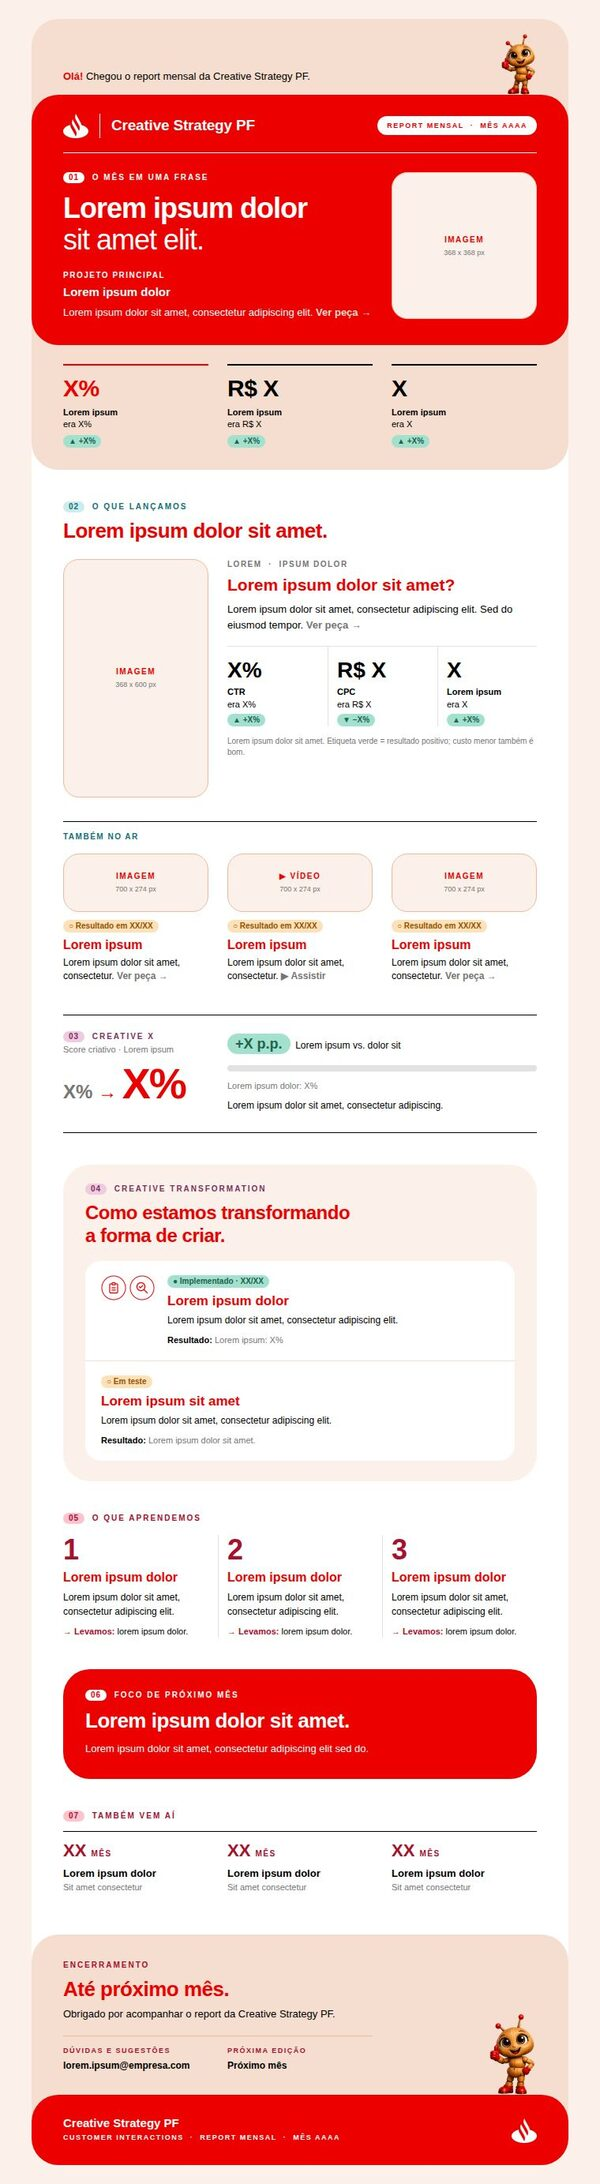
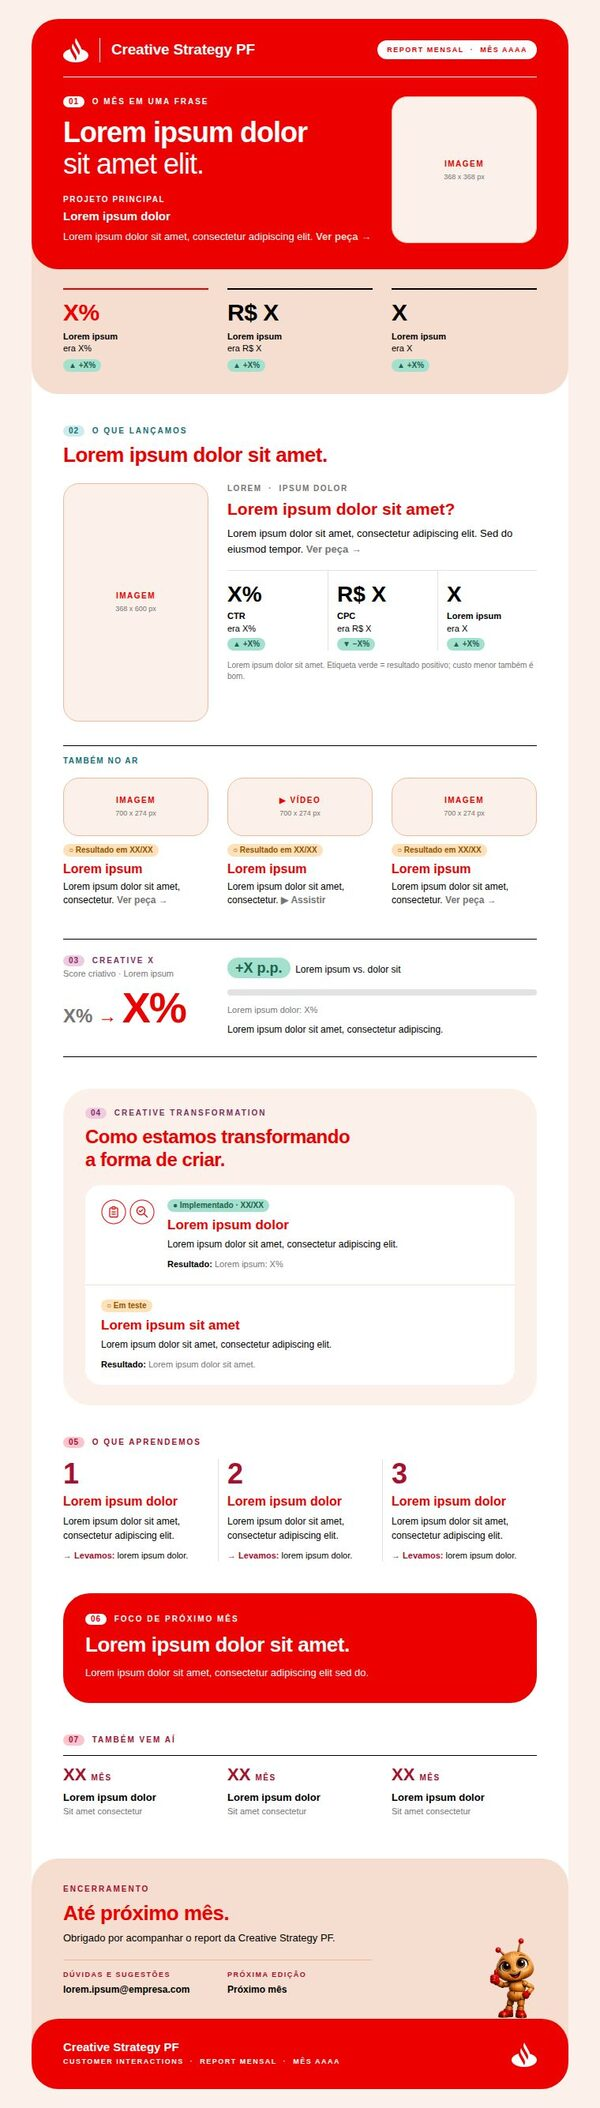
report 3.3: e-mail começa direto na capa
- Removida a faixa "Olá! Chegou o report mensal" com a formiguinha acima
  da capa: abria espaço sem necessidade
- Formiguinha só no encerramento (rodapé), sobre fundo claro
- Testes, backup, prévias e guias atualizados

Claude-Session: https://claude.ai/code/session_01LYpt8bAFtNQM2GAs2vzxtN

diff --git a/report_backup.html b/report_backup.html
@@ -3,7 +3,7 @@
 <head>
 <!--
   ======================================================================
-  BACKUP DO REPORT · versão 3.2 (2026-10-13)
+  BACKUP DO REPORT · versão 3.3 (2026-10-13)
   ======================================================================
   O que é: o layout aprovado do report, num arquivo só, com as imagens
   dentro (abre em qualquer navegador, sem a pasta do projeto).
@@ -99,22 +99,6 @@
 
   <tr>
     <td class="rt" bgcolor="#F5DECF" style="background:#F5DECF;border-radius:34px 34px 0 0;">
-
-    <table role="presentation" width="100%" cellpadding="0" cellspacing="0" border="0"><tr>
-      <td class="px" valign="bottom" style="padding:18px 40px 0 40px;">
-        <table role="presentation" width="100%" cellpadding="0" cellspacing="0" border="0">
-          <tr>
-            <td valign="bottom" style="padding-bottom:14px;">
-              <p class="fx" style="margin:0;font-family:'Santander Micro Text', Arial, Helvetica, sans-serif;font-size:13px;line-height:18px;color:#000000;"><b style="color:#EC0000;">Olá!</b> Chegou o report mensal da Creative Strategy PF.</p>
-            </td>
-            <td width="48" valign="bottom" align="right" style="width:48px;">
[1 lines of base64/hex data omitted]
-            </td>
-          </tr>
-        </table>
-      </td>
-    </tr></table>
-    
     <table role="presentation" width="100%" cellpadding="0" cellspacing="0" border="0"><tr>
     <td class="px ra" bgcolor="#EC0000" style="background:#EC0000;border-radius:34px;padding:24px 40px 32px 40px;">
       <table role="presentation" width="100%" cellpadding="0" cellspacing="0" border="0">

diff --git a/tools/motor.js b/tools/motor.js
@@ -21,7 +21,7 @@
 })(typeof self !== "undefined" ? self : this, function () {
   "use strict";
   /* Versão do projeto (veja CHANGELOG.md). Aparece na página de geração e nos arquivos gerados. */
-  var VERSAO = "3.2 (2026-10-13)";
+  var VERSAO = "3.3 (2026-10-13)";
 
   /* =================================================================== */
   /* 1. LEITURA DOS ARQUIVOS "campo: valor"                               */
@@ -445,7 +445,7 @@
       var s = semBr(v[campo]);
       if (s.length > max && !ehPendencia(s)) problema(prob, "aviso", arqD, v._linhas[campo], "[" + nomeBloco + "] " + campo + " com " + s.length + " caracteres (recomendado até " + max + "). Pode quebrar em mais linhas.");
     }
-    /* Formiguinha (config/marca.txt, bloco [FORMIGUINHA]): o arquivo original, só na abertura e no rodapé. */
+    /* Formiguinha (config/marca.txt, bloco [FORMIGUINHA]): o arquivo original, no encerramento (rodapé). */
     var FM = M.simples.FORMIGUINHA || {}, camFormiga = (FM.arquivo || "").replace(/\\/g, "/").replace(/^\.?\/+/, "");
     if (camFormiga && !existe(camFormiga)) { problema(prob, "erro", arqM, FM._linhas.arquivo, "Formiguinha não encontrada: " + camFormiga + ". Confira o nome do arquivo em config/marca.txt."); camFormiga = ""; }
     function formiga(w, papel) { return camFormiga ? imagem(camFormiga, w, 0, { alt: FM.descricao || "Formiguinha", papel: papel }) : null; }
@@ -611,7 +611,7 @@
     var assunto = "Creative Strategy PF | Report de " + mes + " " + ano;
     var modelo = {
       assunto: assunto, previa: texto(A.previa || semBr(A.frase + " " + A.frase_final)),
-      logo: logo, rodape_logo: rodapeLogo, topo_formiga: formiga(48, "formiguinha"), rodape_formiga: formiga(64, "formiguinha"), edicao: texto(maiusculas(mes + " " + ano)), proximo_mes: prox, proximo_mes_minusculo: texto(ehPendencia(prox) ? prox : prox.toLocaleLowerCase("pt-BR")), contato: texto(E.contato),
+      logo: logo, rodape_logo: rodapeLogo, rodape_formiga: formiga(64, "formiguinha"), edicao: texto(maiusculas(mes + " " + ano)), proximo_mes: prox, proximo_mes_minusculo: texto(ehPendencia(prox) ? prox : prox.toLocaleLowerCase("pt-BR")), contato: texto(E.contato),
       cor: cor, fonte: fonte,
       abertura: abertura, lancamos: lancamos, cx: cx, transformation: transformation, aprendizados: aprendizados, foco: foco, agenda: agenda
     };

diff --git a/tests/motor.test.js b/tests/motor.test.js
@@ -82,18 +82,19 @@ teste("grade da abertura: 3 números em colunas de 184 px; 4 números em 4 colun
   assert.strictEqual(r.modelo.abertura.numeros[0].largura + r.modelo.abertura.sobra, 600, "1 número: coluna 1 e o resto vazio");
 });
 
-teste("Brand Guide: cantos de 34 px (5% do formato de 680 px) e 20 px no celular; formiguinha dentro do cartão", function () {
+teste("Brand Guide: cantos de 34 px (5% do formato de 680 px) e 20 px no celular; e-mail começa na capa", function () {
   var r = montar(MODELO);
   assert.ok((r.html.match(/border-radius:34px/g) || []).length >= 6, "retângulos com 34 px");
   assert.ok(/\.ra\{border-radius:20px !important;\}/.test(r.html), "20 px no celular");
-  var cartao = r.html.indexOf('class="container ra"'), topo = r.html.indexOf("Olá!");
-  assert.ok(cartao > 0 && topo > cartao, "a saudação com a formiguinha fica dentro do cartão do e-mail");
+  assert.ok(r.html.indexOf("Olá!") < 0, "sem faixa de saudação antes da capa");
 });
 
-teste("formiguinha: só na abertura e no rodapé, com o arquivo original", function () {
+teste("formiguinha: só no encerramento (rodapé), com o arquivo original", function () {
   var r = montar(MODELO);
   var f = r.imagens.filter(function (i) { return i.papel === "formiguinha"; });
-  assert.strictEqual(f.length, 2);
+  assert.strictEqual(f.length, 1);
+  assert.strictEqual((r.html.match(new RegExp(f[0].token, "g")) || []).length, 1, "uma aparição só");
+  assert.ok(r.html.indexOf(f[0].token) > r.html.indexOf("Até "), "fica no rodapé");
   f.forEach(function (i) { assert.strictEqual(i.caminho, "assets/formiguinha/formiguinha.png"); });
   var semFormiga = M.montar({ dados: MODELO, marca: MARCA.replace("arquivo: assets/formiguinha/formiguinha.png", "arquivo:"), template: TEMPLATE, existe: existe });
   assert.ok(semFormiga.ok && !semFormiga.imagens.some(function (i) { return i.papel === "formiguinha"; }));

diff --git a/template/report.html b/template/report.html
@@ -118,25 +118,6 @@
        frase do mês e projeto principal com a peça. Logo abaixo, a faixa creme dos números. -->
   <tr>
     <td class="rt" bgcolor="{{cor.abertura_fundo}}" style="background:{{cor.abertura_fundo}};border-radius:34px 34px 0 0;">
-    {{#topo_formiga}}
-    <!-- ABERTURA · dentro do cartão, no painel claro (Rio): saudação à esquerda e a formiguinha em pé
-         sobre a capa vermelha, alinhada à direita da grade (mesmo eixo do selo, da peça e da chama).
-         Espelha o rodapé, onde ela se despede em pé sobre a faixa vermelha. -->
-    <table role="presentation" width="100%" cellpadding="0" cellspacing="0" border="0"><tr>
-      <td class="px" valign="bottom" style="padding:18px 40px 0 40px;">
-        <table role="presentation" width="100%" cellpadding="0" cellspacing="0" border="0">
-          <tr>
-            <td valign="bottom" style="padding-bottom:14px;">
-              <p class="fx" style="margin:0;font-family:{{fonte.texto}};font-size:13px;line-height:18px;color:{{cor.texto_corpo}};"><b style="color:{{cor.titulo}};">Olá!</b> Chegou o report mensal da Creative Strategy PF.</p>
-            </td>
-            <td width="{{w}}" valign="bottom" align="right" style="width:{{w}}px;">
-              <img src="{{src}}" width="{{w}}"{{#h}} height="{{h}}"{{/h}} alt="{{alt}}" style="display:block;border:0;width:{{w}}px;height:auto;margin-left:auto;font-family:Arial,Helvetica,sans-serif;font-size:10px;color:{{cor.texto_apoio}};">
-            </td>
-          </tr>
-        </table>
-      </td>
-    </tr></table>
-    {{/topo_formiga}}
     <table role="presentation" width="100%" cellpadding="0" cellspacing="0" border="0"><tr>
     <td class="px ra" bgcolor="{{cor.marca}}" style="background:{{cor.marca}};border-radius:34px;padding:24px 40px 32px 40px;">
       <table role="presentation" width="100%" cellpadding="0" cellspacing="0" border="0">

diff --git a/assets/formiguinha/README.md b/assets/formiguinha/README.md
@@ -9,16 +9,11 @@ A personagem do Creative Strategy, no **arquivo original** recebido da área.
 
 ## Onde aparece
 
-Só **duas vezes**, sempre o mesmo arquivo:
-
-1. **Abertura:** no painel claro do topo do e-mail (48 px), ao lado do "Olá!", em pé sobre a capa vermelha.
-2. **Encerramento:** no painel claro do rodapé (64 px), em pé sobre a faixa vermelha da assinatura.
-
-As duas ficam alinhadas à direita da grade, no mesmo eixo do selo do mês, da peça da capa e da chama: o report abre e fecha do mesmo jeito. Aparecem também no celular.
+**Uma vez, no encerramento**, sempre o mesmo arquivo: no painel claro do rodapé (64 px), em pé sobre a faixa vermelha da assinatura, alinhada à direita da grade, sobre a chama. Aparece também no celular.
 
 Sempre sobre **fundo claro** (Rio): sobre o vermelho, as luvas e os sapatos vermelhos da personagem somem.
 
-Não há formiguinha nas seções do meio. As variações desenhadas na versão 2 (escudo, mala, fones etc.) foram **retiradas**: eram releituras, não o arquivo original.
+Histórico: na abertura ela já ficou ao lado dos números e numa faixa de saudação no topo. As duas posições abriam espaço extra ou ficavam soltas no layout, então a abertura ficou só com a capa (versão 3.3). Não há formiguinha nas seções do meio. As variações desenhadas na versão 2 (escudo, mala, fones etc.) foram **retiradas**: eram releituras, não o arquivo original.
 
 ## Regras
 

diff --git a/README.md b/README.md
@@ -2,7 +2,7 @@
 
 Modelo do report mensal da Creative Strategy PF (Customer Interactions): um e-mail executivo de uma página, enviado pelo Outlook, com peças e vídeos clicáveis. Ele é gerado a partir de **um arquivo de texto por mês**. Ninguém precisa editar HTML.
 
-**Versão 3.2 (2026-10-13).** Histórico em [CHANGELOG.md](CHANGELOG.md).
+**Versão 3.3 (2026-10-13).** Histórico em [CHANGELOG.md](CHANGELOG.md).
 
 <p>
 <img src="docs/preview-modelo.jpg" width="420" alt="Prévia do modelo em branco no computador">
@@ -134,7 +134,7 @@ Os textos não ficam no HTML: a página monta o HTML a cada geração, para o la
 - Siga o **Brand Guide Santander Brasil (maio/2026)**. Ele é interno e **não** fica no repositório; peça a Marca.
 - Fundo só em Branco, Lisboa, Rio ou Vermelho Santander. Sobre branco, títulos em vermelho e textos em preto. Paleta e regras: [assets/marca/README.md](assets/marca/README.md).
 - Use só a **chama** oficial (sem o nome escrito), em branco sobre o vermelho.
-- A formiguinha aparece **só duas vezes**: abertura e rodapé. Use sempre o arquivo original.
+- A formiguinha aparece **uma vez**, no rodapé, fechando o report. Use sempre o arquivo original.
 - Não use peças, logos ou fotos baixadas da internet.
 
 ## 13. Como utilizar a tipografia

diff --git a/docs/BACKUP.md b/docs/BACKUP.md
@@ -11,7 +11,7 @@
 
 ## report_backup.html
 
-**O que é:** o layout aprovado, num arquivo só, com as imagens dentro. Conteúdo: o modelo em branco (Lorem Ipsum, `X%`, espaços de imagem). Sem dados reais. **Versão:** escrita no comentário do topo do arquivo (hoje, 3.2 de 2026-10-13) e no [CHANGELOG.md](../CHANGELOG.md).
+**O que é:** o layout aprovado, num arquivo só, com as imagens dentro. Conteúdo: o modelo em branco (Lorem Ipsum, `X%`, espaços de imagem). Sem dados reais. **Versão:** escrita no comentário do topo do arquivo (hoje, 3.3 de 2026-10-13) e no [CHANGELOG.md](../CHANGELOG.md).
 
 **Como abrir:** dois cliques (abre no navegador). Não precisa da pasta do projeto nem de internet.
 
@@ -52,7 +52,7 @@ Na dúvida, não force nada (*reset*, *force push*): peça ajuda.
 
 ## Histórico do Git e dados antigos
 
-**Situação verificada nas versões 3.0 a 3.2:**
+**Situação verificada nas versões 3.0 a 3.3:**
 
 - Os arquivos atuais **não têm dados reais**: só o modelo (Lorem Ipsum e `X`), a chama, a formiguinha e os ícones.
 - Busca por credenciais (senhas, tokens, chaves) em **todo** o histórico: **nada encontrado**.

diff --git a/docs/ARQUITETURA.md b/docs/ARQUITETURA.md
@@ -171,7 +171,7 @@ O que a ferramenta **não** consegue verificar: se o link abre e se o destinatá
 
 | Teste | Status |
 |---|---|
-| Motor: 30 testes automáticos (`node tests/motor.test.js`), inclusive estado vazio, provisórios (Lorem/X), formiguinha só 2 vezes e paleta do Brand Guide | Passam |
+| Motor: 30 testes automáticos (`node tests/motor.test.js`), inclusive estado vazio, provisórios (Lorem/X), formiguinha só no rodapé e paleta do Brand Guide | Passam |
 | Página de geração, de ponta a ponta no Chromium (escolher pasta, conferir, baixar `.eml` e `.html`), sem erro no console, e e-mail sem vazar para o lado em 1440, 1024, 768, 430, 390, 360 e 320 px | Passa (`tests/ferramenta.e2e.js`) |
 | Fonte `.otf` colocada em `assets/fonts/` (arquivo de teste no lugar da oficial) | Entra na prévia e no `.html` e carrega; fora do `.eml` |
 | Fotos do banco de imagens nos espaços do modelo (teste local, fora do repositório) | Nada vaza de 320 a 1440 px; a peça do destaque aparece no celular |

diff --git a/CHANGELOG.md b/CHANGELOG.md
@@ -2,6 +2,11 @@
 
 A versão atual aparece na página `gerar-report.html`, no topo de `report_backup.html` e em `tools/motor.js` (`VERSAO`).
 
+## 3.3 · 2026-10-13 · Abertura direto na capa
+
+- Saiu a faixa "Olá! Chegou o report mensal" com a formiguinha, acima da capa: abria espaço sem necessidade. O e-mail começa direto na capa vermelha.
+- A formiguinha fica só no encerramento, no rodapé, sobre fundo claro.
+
 ## 3.2 · 2026-10-13 · Cantos do Brand Guide e formiguinha integrada
 
 - **Cantos conforme o guia (3.6):** raio de 5% do lado menor do **formato** (e-mail de 680 px = 34 px; no celular, 20 px) em todos os retângulos: cartão do e-mail, capa, faixa de números, Creative Transformation, Foco e rodapé. Antes o raio era calculado pela caixa (8 a 20 px) e o e-mail parecia quadrado.

diff --git a/docs/FAQ.md b/docs/FAQ.md
@@ -99,8 +99,8 @@ O e-mail usa a fonte **instalada** no computador de quem lê. Sem a fonte Santan
 ### Posso usar outra cor?
 Só as da paleta do Brand Guide, conforme [assets/marca/README.md](../assets/marca/README.md). Fundo, só Branco, Lisboa, Rio ou Vermelho Santander.
 
-### Por que a formiguinha só aparece duas vezes?
-É um elemento de identidade, não decoração: abre (capa) e fecha (rodapé) o report. Sempre o arquivo original.
+### Por que a formiguinha só aparece no rodapé?
+É um elemento de identidade, não decoração: ela fecha o report, sobre fundo claro (no vermelho, ela perde contraste). Na abertura, a capa já cumpre esse papel. Sempre o arquivo original.
 
 ## Testar e conferir
 

diff --git a/docs/CORPORATE_SETUP.md b/docs/CORPORATE_SETUP.md
@@ -100,7 +100,7 @@ Testar só na sua conta não basta: você é dono dos arquivos e tem todos os ac
 | [ ] | Layout inteiro, sem cortes e sem rolagem para o lado | | | |
 | [ ] | Fontes legíveis: fonte Santander ou Arial, sem Times New Roman | | | |
 | [ ] | Chama do Santander aparece no topo e no rodapé, nítida | | | |
-| [ ] | Formiguinha aparece na abertura (computador) e no rodapé | | | |
+| [ ] | Formiguinha aparece no rodapé, nítida | | | |
 | [ ] | Imagens e miniaturas aparecem sem clicar em "Baixar imagens" | | | |
 | [ ] | "Ver peça →" abre a peça grande | | | |
 | [ ] | Miniatura da peça também abre | | | |

diff --git a/docs/COMO_ATUALIZAR_O_MES.md b/docs/COMO_ATUALIZAR_O_MES.md
@@ -124,7 +124,7 @@ Use o [checklist](TEST_CHECKLIST.md) e, se quiser uma segunda leitura, o [Prompt
 | `[FOCO]` | **06** · bloco vermelho do foco do próximo mês |
 | `[AGENDA 1]` a `[AGENDA 6]` | **07** · Também vem aí (linhas de 3) |
 
-A formiguinha aparece sozinha na abertura e no rodapé. Não há campo para ela no arquivo do mês.
+A formiguinha aparece sozinha no rodapé. Não há campo para ela no arquivo do mês.
 
 **Regra do report:** cada projeto aparece **uma vez**. O projeto principal não se repete em "O que lançamos".
 
